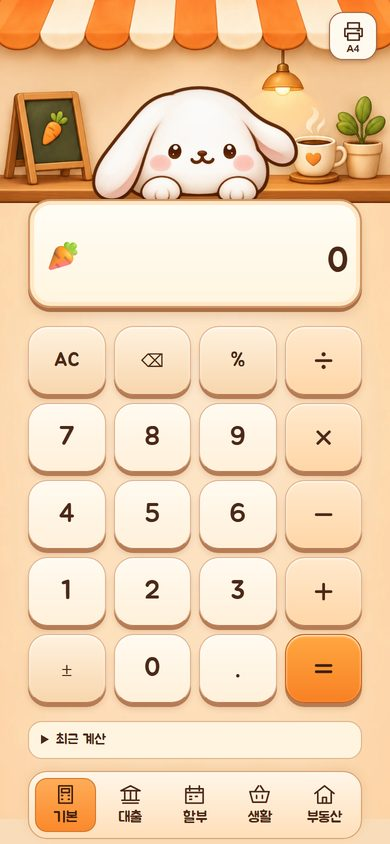
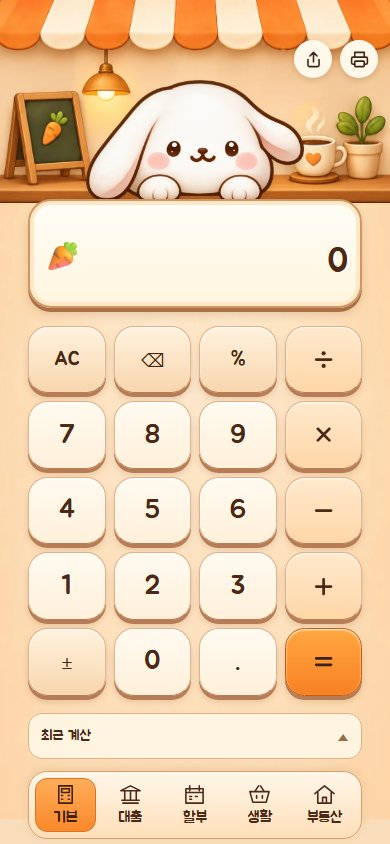
캐롯계산기 v22: 미리 보기 사진 3장, 소개에 이미지 저장·공유·인쇄 추가

diff --git a/apps.js b/apps.js
@@ -10,7 +10,7 @@ window.DJ_APPS = [
     joke: "구조선은 아직 안 옴. 대장이 업데이트 중" },
   { id: "carrot", name: "캐롯계산기", cat: "tool", url: "https://quiet-pages153.github.io/carrot-calculator/",
     icon: "icons/carrot.png", shots: ["shots/carrot-1.jpg", "shots/carrot-2.jpg", "shots/carrot-3.jpg"], color: "#f7d6ac",
-    line: "대출, 할인, 생활, 부동산 계산을 한 곳에서.",
+    line: "대출, 할인, 생활, 부동산 계산을 한 곳에서. 계산서는 이미지로 저장·공유하고 A4로 인쇄해요.",
     joke: "취득세 반올림까지 대장이 손으로 검산함" },
   { id: "ttukttak", name: "뚝딱카드", cat: "tool", url: "https://quiet-pages153.github.io/ttukttak-card/",
     icon: "icons/ttukttak.png", shots: ["shots/ttukttak-1.jpg", "shots/ttukttak-2.jpg", "shots/ttukttak-3.jpg"], color: "#FFF6F0",
